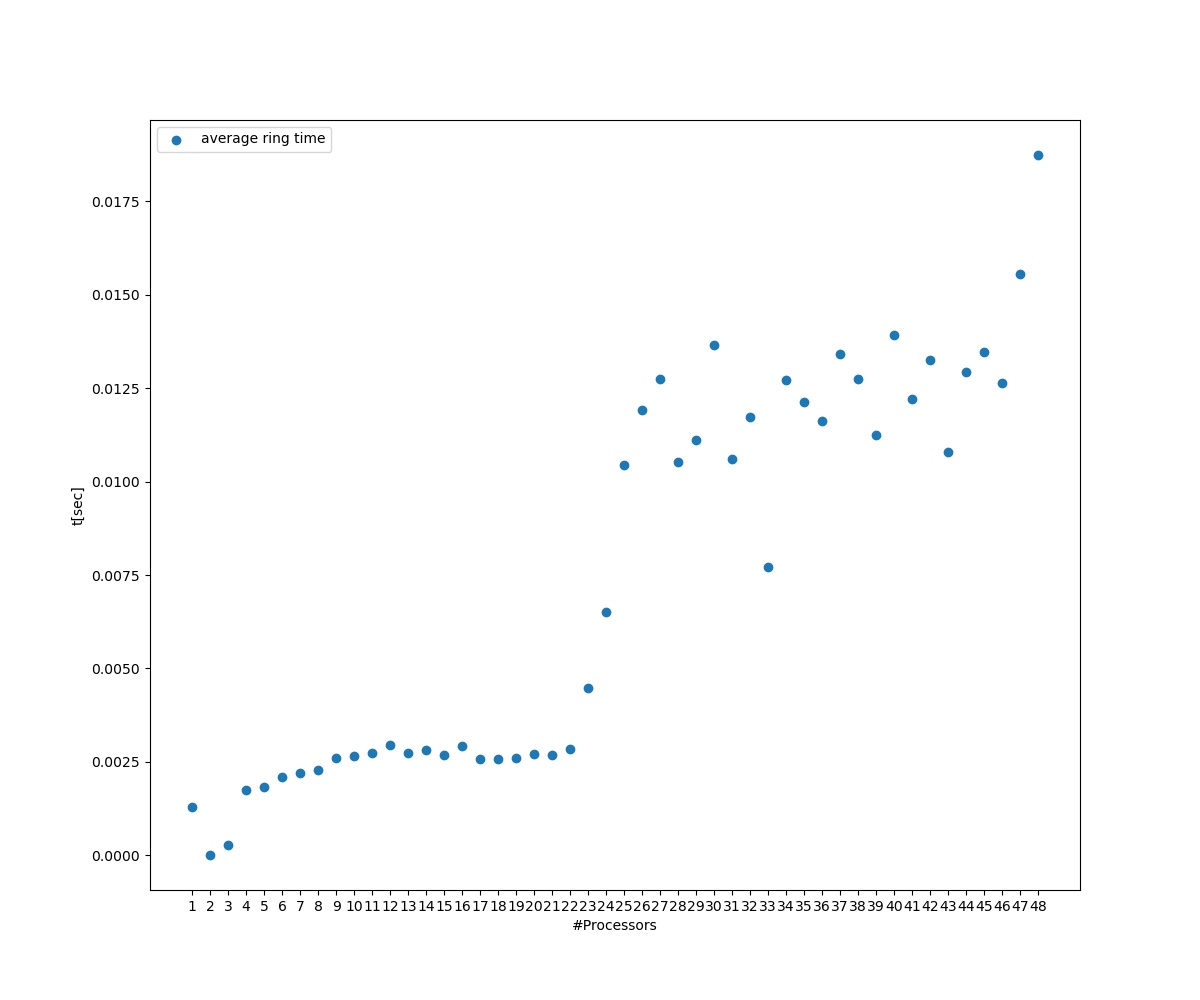
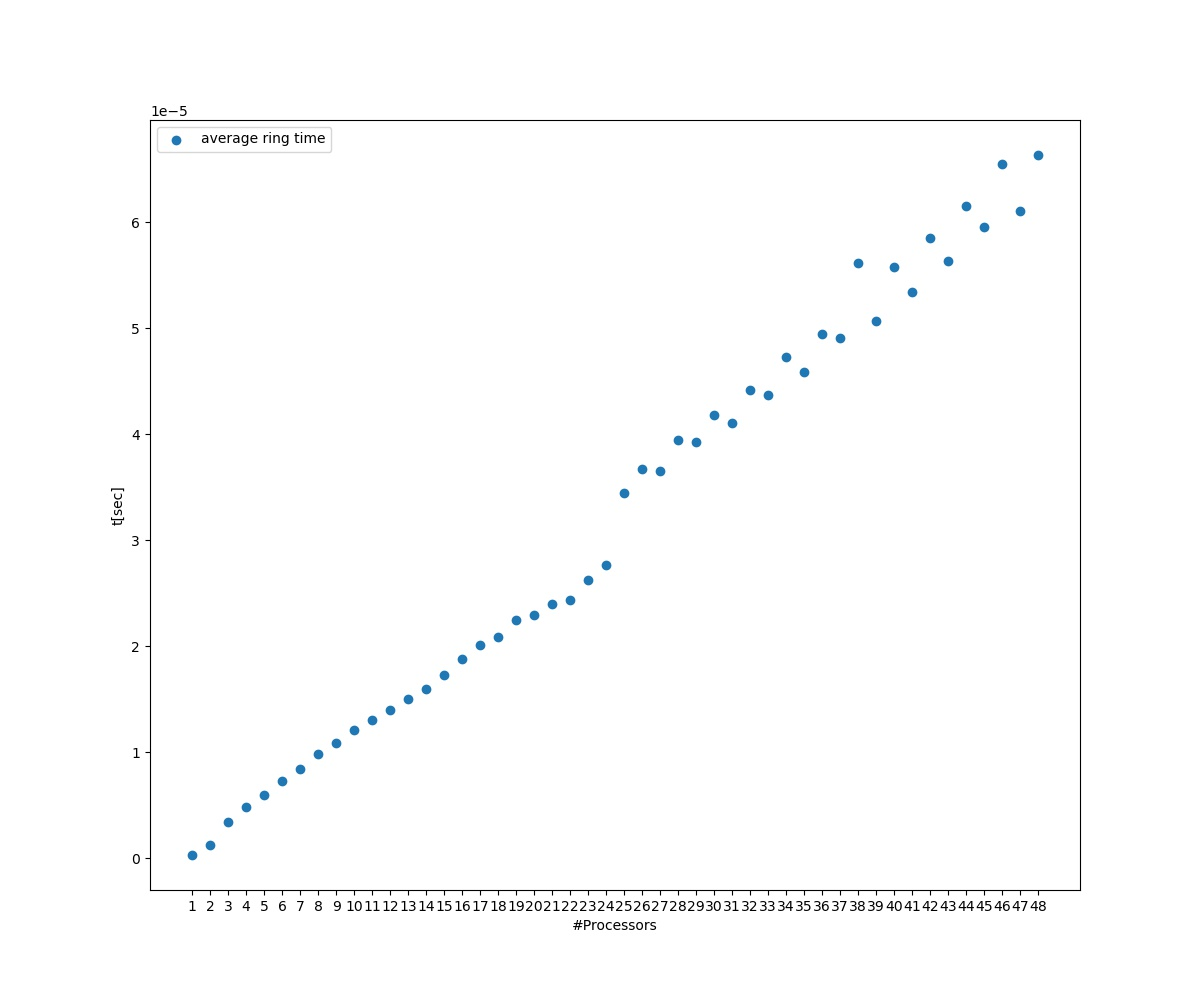
refactor

diff --git a/assigment1/section1/exercise1/plot_times.py b/assigment1/section1/exercise1/plot_times.py
@@ -22,7 +22,7 @@ if __name__ == '__main__':
     plt.ylabel("t[sec]")
     plt.legend(loc="upper left")
     plt.savefig("plot_ring_times.jpg")
-    plt.clf()
+    # plt.clf()
 
     df = pd.read_csv("runtimes.csv")
 
@@ -41,7 +41,6 @@ if __name__ == '__main__':
     bandwidth = 5460
     message_size = 4
     y = [T_comm(message_size, c, bandwidth, num_proc) for num_proc in x]
-    print(x, y)
     plt.plot(x, y, 'k-', label="network model (#Processors <= 24)")
 
     x = np.arange(25, 49)
@@ -49,7 +48,6 @@ if __name__ == '__main__':
     bandwidth = 12060
     message_size = 4
     y = [T_comm(message_size, c, bandwidth, num_proc) for num_proc in x]
-    print(x, y)
     plt.plot(x, y, 'k-.', label="network model (#Processors > 24)")
 
     plt.legend(loc="upper left")

diff --git a/assigment1/section1/exercise1/get_ring_time.c b/assigment1/section1/exercise1/get_ring_time.c
@@ -2,7 +2,7 @@
 #include <mpi.h>
 #include <stdlib.h>
 
-#define ITERATIONS 100000
+#define ITERATIONS 1000000
 
 void execute_mpi_ring(int numprocs, double *start_ring_time, double *elapsed_ring_time);
 
